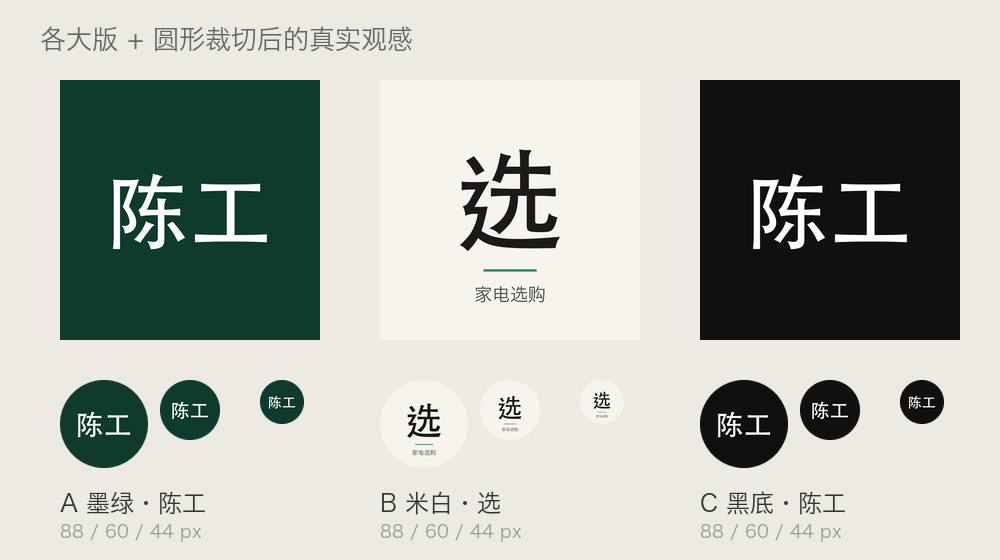
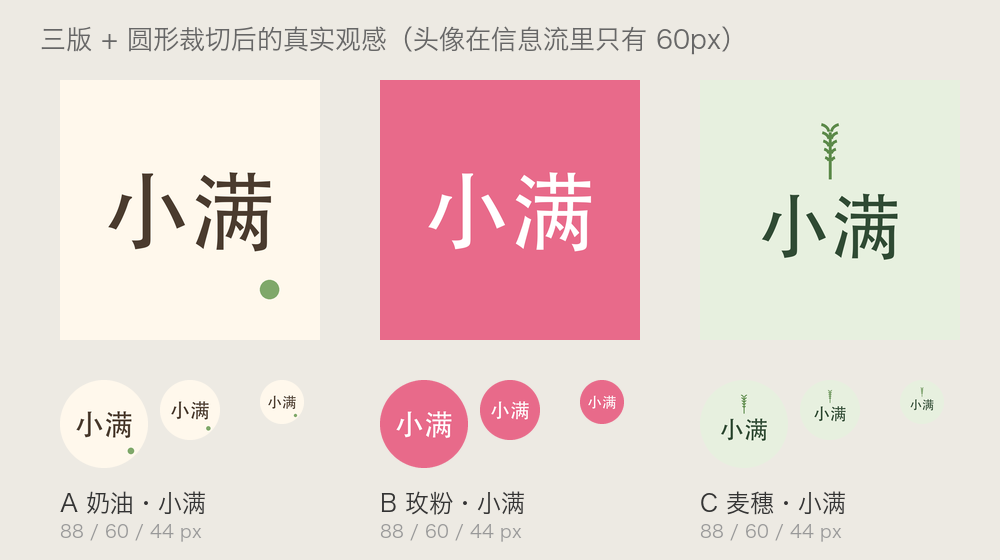
account: 定名改版v2「小满不将就」女性向 + 奶油/玫粉/麦穗三版头像 + 生活内容比例规则

diff --git a/content/account/命名与头像.md b/content/account/命名与头像.md
@@ -1,89 +1,106 @@
-# 账号：名字与头像（定稿）
+# 账号：名字与头像（v2 · 女性向）
 
-> 定稿：2026-11-20
-> 规则依据：`docs/12-规则总表.md`（不出镜 / 不点名品牌 / 不写极限词）
-> 素材：`avatar-A-墨绿陈工.png`（推荐）/ `avatar-B-米白选.png` / `avatar-C-黑底陈工.png`
+> 更新：2026-11-20
+> v1「陈工选家电」已废弃——反馈"太土"，且账号会掺生活内容，工具号式的名字装不下。
+> 规则依据：`docs/12-规则总表.md`
 
 ---
 
-## 一、定名
+## 一、定名逻辑变了
 
-## **陈工选家电**
+v1 的思路是「名字当搜索入口」：把品类词塞进昵称，让人搜"家电"能找到你。
 
-三个部分各干一件事：
+这条路对**纯工具号**有效，但对你要做的号有代价：名字一旦是工具，发什么生活内容都像跑题，人格长不出来，而小红书的粉丝是跟着人走的。
 
-| 成分 | 作用 |
+新的取舍：**名字负责人格和记忆点，品类词交给简介和内容去承接。**
+
+所以下面的候选都遵循三条：**念得软、有画面、能被复述**（"你看那个叫小满不将就的"）。
+
+---
+
+## 二、推荐：小满不将就
+
+> **小满不将就**（5 字）
+
+**为什么是它**：
+
+| 层 | 含义 |
 |---|---|
-| **陈工** | 人格 + 身份背书。你是程序员，「工」字是真的，不是编的人设。不出镜也能有信任感 |
-| **选** | 动作词，直接命中「怎么选家电」「家电怎么选」这类搜索 |
-| **家电** | 品类词。可扩冰箱、空调、小家电，不用改名字 |
+| **小满** | 节气名，麦子将熟未熟。字面意思就是「刚好够、不贪多」——正好是选家电的价值观（不买贵的，买对的） |
+| **不将就** | 两个立场同时成立：买东西不将就，生活也不将就 |
+| **合起来** | 软名字 + 硬态度。反差本身就有记忆点，且不像营销号 |
 
-**为什么是 6 个字**：小红书昵称在信息流里常被截断，越短越好念、越好被口头转述（"我在小红书看一个叫陈工选家电的"）。6 字是甜点，再长就开始吃亏。
+**它装得下什么**：洗烘对比、冰箱选购、租房改造、周末做饭、买了一束花——都不跑题，因为"不将就"是个生活主张，不是品类限定。
 
-**为什么不用「笔记」「日记」「日常」这类后缀**：占字数、不带来任何搜索价值、还暗示"这是个随便记记的号"。你的定位是决策工具，不要自降身份。
+**风险**：略像一句 slogan。如果你更想要"软"而不是"态度"，选下面的备选。
 
 ---
 
-## 二、备选（如果你不想用真姓）
+## 三、备选（按可爱度排序）
 
-| 候选 | 优点 | 缺点 | 建议 |
+| 候选 | 感觉 | 适合 | 代价 |
 |---|---|---|---|
-| **陈工选家电** | 人格真实、品类词在、可扩展 | 用真姓 | ★ 推荐 |
-| **家电参数翻译官** | 差异化最强，一眼知道干什么 | 7 字偏长、无人格、关注理由弱（工具号涨粉慢） | 次选 |
-| **理工男选家电** | 不用真名，身份感在 | 略套路，且"理工男"吸引的是同行不是买家 | 备选 |
-| 陈工翻参数 | 有差异有人格 | 缺"家电"这个搜索词 | 不推荐做昵称，可做简介 |
+| **小满挑挑** | 最可爱，叠字有撒娇感，"挑"又暗扣选品 | 想被当成"会挑东西的女生" | 「挑挑」略生造，第一次听会愣半秒 |
+| **一只小满** | 最软、最像个人号，纯生活感 | 生活内容占比高（>30%） | 完全没有品类暗示，家电读者要靠简介才知道你干嘛 |
+| **挑食的栗子** | 双关最好：「挑食」= 挑剔 = 会挑 | 记忆点最强，食物系在小红书很吃香 | 和"家电"零关联，前缀完全靠内容建立 |
+| **小满的购物车** | 场景感强，好物+生活都能装 | 偏好物分享 | 「购物车」有电商味，容易被当成带货号 |
 
-**已被否掉的旧候选**（`09` 里写的）：
-
-- `阿选的家电笔记` —— 「笔记」是废字；「阿选」不指向任何真实身份，人格是空的
-- `参数翻译官` —— 没人格也没品类词，搜"家电"搜不到你
-- `老周选家电` —— 结构对，但姓氏不是你的
+**我的排序**：小满不将就 > 小满挑挑 > 一只小满 > 挑食的栗子。
+第一个保住"选品"内核又不土；第二个最可爱但品类感弱一点；后两个更适合你彻底放弃家电主线的那天。
 
 ---
 
-## 三、简介（复制即用）
+## 四、简介（配合新名字改过）
 
 ```
-帮普通人选家电，不念参数表
-洗烘 / 冰箱 / 空调｜参数对比 + 差评聚类
-每周 4-5 篇，评论区问型号，我拆给你看
+小满不将就｜买东西之前先来问我
+洗烘 · 冰箱 · 空调的参数和差评，我拆给你看
+偶尔也发点自己的日子
 ```
 
-三行分工：**第一行定位，第二行品类+方法（吃搜索），第三行给关注理由。**
+第三行是新增的——**主动声明会发生活内容**，比让读者自己发现要好。粉丝对"偶尔跑题"很宽容，对"骗我关注"不宽容。
 
 ---
 
-## 四、头像
+## 五、头像
 
-三版都做成 1080×1080，已按小红书**圆形裁切**验证过实际观感（见 `_预览-三版对比.png`，含 88/60/44px 三档）。
+三版都是 1080×1080，已按小红书**圆形裁切**在 88 / 60 / 44px 下验证（见 `_预览-三版对比.png`）。
 
-| 版本 | 文件 | 观感 | 适合 |
-|---|---|---|---|
-| **A（推荐）** | `avatar-A-墨绿陈工.png` | 墨绿底 + 白字「陈工」，44px 仍清晰 | 信任感强，像做测评的人不像营销号 |
-| B | `avatar-B-米白选.png` | 米白底 + 大字「选」+ 小字「家电选购」 | 工具感、杂志感，但小字在 44px 会糊 |
-| C | `avatar-C-黑底陈工.png` | 黑底 + 白字「陈工」 | 最中性，适合以后换品类 |
+| 版本 | 文件 | 特点 |
+|---|---|---|
+| **A 奶油（推荐）** | `avatar-A-奶油小满.png` | 米白底 + 墨棕「小满」+ 豆绿小圆点。最温柔，最耐看，长期不腻 |
+| B 玫粉 | `avatar-B-玫粉小满.png` | 玫粉底 + 白字。信息流里最跳，最"女生号"，但饱和度偏高 |
+| C 麦穗 | `avatar-C-麦穗小满.png` | 奶绿底 + 麦穗线稿 + 「小满」。唯一有图形符号的，和节气名呼应，记忆点最强 |
 
-**设计约束（为什么长这样）**：
+**A/B/C 怎么选**：想要长期耐看选 A；想要在列表里被一眼看到选 B；想要别人记住"麦穗那个"选 C。
 
-1. **头像是圆形的**，所有文字必须落在内切圆里，四角会被切掉。三版都已按此验证。
-2. **60px 是真实显示尺寸**，信息流里就这么大。所以只能放 1-2 个字，任何"小字说明"在手机上都是噪点。
-3. **不放真人脸**（`12`：不出镜）。也不用产品图——你换品类就废了。
-4. **不用高饱和红黄**。家电类目里高饱和 = 营销号，会拉低信任分。
+**设计约束（为什么都这么简单）**：
 
----
-
-## 五、注册后立刻做的 3 件事
-
-1. **完成实名认证**——挂车要求账号满 180 天 + 实名，**注册当天就把倒计时记下来**（`data/notes_log.csv` 可以加一行备注，或单独记在日历上）
-2. **只发家电/家居**——前 20 篇不要发任何生活日常，否则领域标签会糊
-3. **置顶 3 篇的位置先留空**——等第 01 篇发出去、数据出来再决定置顶哪三篇，不要一上来就硬凑
+1. **头像是圆的，信息流里只有 60px**。所以只放 2 个字，任何小字说明在手机上都糊成噪点。
+2. **不放真人脸**（`12`：不出镜）。
+3. **不放产品图**——换品类或发生活内容就冲突了。
+4. 三版都过了 44px 可读性测试。
 
 ---
 
-## 六、名字的合规检查
+## 六、会发生活内容，需要知道的规则
 
-- [x] 无极限词（最/第一/100%/官方/旗舰）
-- [x] 无人格冒用（不是"XX评测""XX研究所"这类容易被当成机构的）
-- [x] 不绑定单一品类（洗烘 → 冰箱 → 空调都不用改名）
-- [x] 不含联系方式、不含"代购""团购"等交易暗示
-- [x] 8 字以内，口语可复述
+`12` 原本定的是"只发家电/家居，前 20 篇不发生活日常，否则领域标签会糊"。你现在要掺生活内容，改成这样：
+
+| 阶段 | 生活内容比例 | 说明 |
+|---|---|---|
+| 前 10 篇 | **0-1 篇** | 标签还没立住，这时候发生活内容最伤。先把"家电选购"钉死 |
+| 10-20 篇 | ≤20% | 可以发，但每 5 篇最多 1 篇，且要和家电有关联（租房、搬家、收纳、做饭） |
+| 20 篇后 | ≤30% | 标签稳了，生活内容反而是人格加分项 |
+
+**判断标准很简单**：这篇生活内容，能不能让一个想买家电话的人觉得"这人可信"？能，就发；不能，就是纯跑题。
+
+---
+
+## 七、合规检查
+
+- [x] 无极限词（最/第一/100%/官方）
+- [x] 不含联系方式、不含"代购""团购"交易暗示
+- [x] 不绑定单一品类
+- [x] 5 字以内，口语可复述
+- [x] 不含品牌名，无侵权风险

diff --git a/README.md b/README.md
@@ -27,7 +27,7 @@ xhsProject/
 │   ├── images_v2/                    # ⭐ 第01篇 V2 配图（6 张 1080×1440，含真实商品图）
 │   ├── images/                       # 旧 5 图（已被 v2 替代，留档）
 │   ├── reference/                    # 淘宝/天猫真实截图素材（商品图/价格页/采集说明）
-│   └── account/                      # 账号资产：定名「陈工选家电」+ 3 版头像(1080×1080)
+│   └── account/                      # 账号资产：定名「小满不将就」+ 3 版头像(1080×1080)
 ├── templates/
 │   ├── 笔记脚本模板.md               # 新笔记从这里复制（与 01 同结构）
 │   ├── 笔记模板-好物测评.md          # 直接套用的图文笔记结构模板
@@ -80,6 +80,7 @@ python scripts/xhs_collector.py --keyword "平价收纳" --pages 3
 - 2026-11-16：新增 `content/第01篇-洗烘一体vs洗烘套装.md`——**首篇成品笔记脚本**，按 `09` 执行卡 + `10` 九图结构写死：3 个候选标题、封面版式图、780 字正文全文、9 图逐图文案、标签、发布时间与置顶评论、8 条发布前数据核对清单。
 - 2026-11-16：建立 `content/` **成品笔记素材库**——新增 `_索引.md`（索引表 / 状态图例 / 攒稿节奏 / 发布前检查）与 `templates/笔记脚本模板.md`。排期已列入 02-05 四篇（差评聚类 / 价格分档 / 场景算账 / 参数解读）。
 - 2026-11-20：**账号定名**——新增 `content/account/命名与头像.md` + 3 版头像 PNG。定名「**陈工选家电**」（人格+品类词+可扩展，8 字内）；头像推荐 A 版墨绿底「陈工」，均已按小红书圆形裁切在 88/60/44px 下验证。含简介模板、注册后 3 件事、合规检查。
+- 2026-11-20：**定名改版 v2（女性向）**——「陈工选家电」因调性太硬被否。新名「**小满不将就**」（节气名+生活主张，可容纳生活内容），备选 小满挑挑 / 一只小满 / 挑食的栗子。头像重做为奶油 / 玫粉 / 麦穗三版，同样过了 88/60/44px 圆形裁切验证。新增「生活内容比例规则」：前 10 篇 ≤1 篇、10-20 篇 ≤20%、20 篇后 ≤30%。
 - 2026-11-16：新增 `content/images/` 5 张成品配图（纯表格版）。
 - 2026-11-16：**第 01 篇升级 V2（移动端真实素材版）**——通过用户已登录 Chrome 截到淘宝/天猫真实商品页，拿到清晰商品主图和当天真实价格。重做 6 张 1080×1440 竖版图（`content/images_v2/`，含真实商品图），正文加入真实发现「标题写洗烘、主图却写不带烘干」，价格换成当天实采值；真实截图存 `content/reference/`。
 - 2026-11-16：新增 `docs/12-规则总表.md`——把 08/09/10/11 的规则收敛成一份当前生效版，冲突时以此为准；更新 `docs/11`（更正"电商数据抓不到"的旧结论）。
